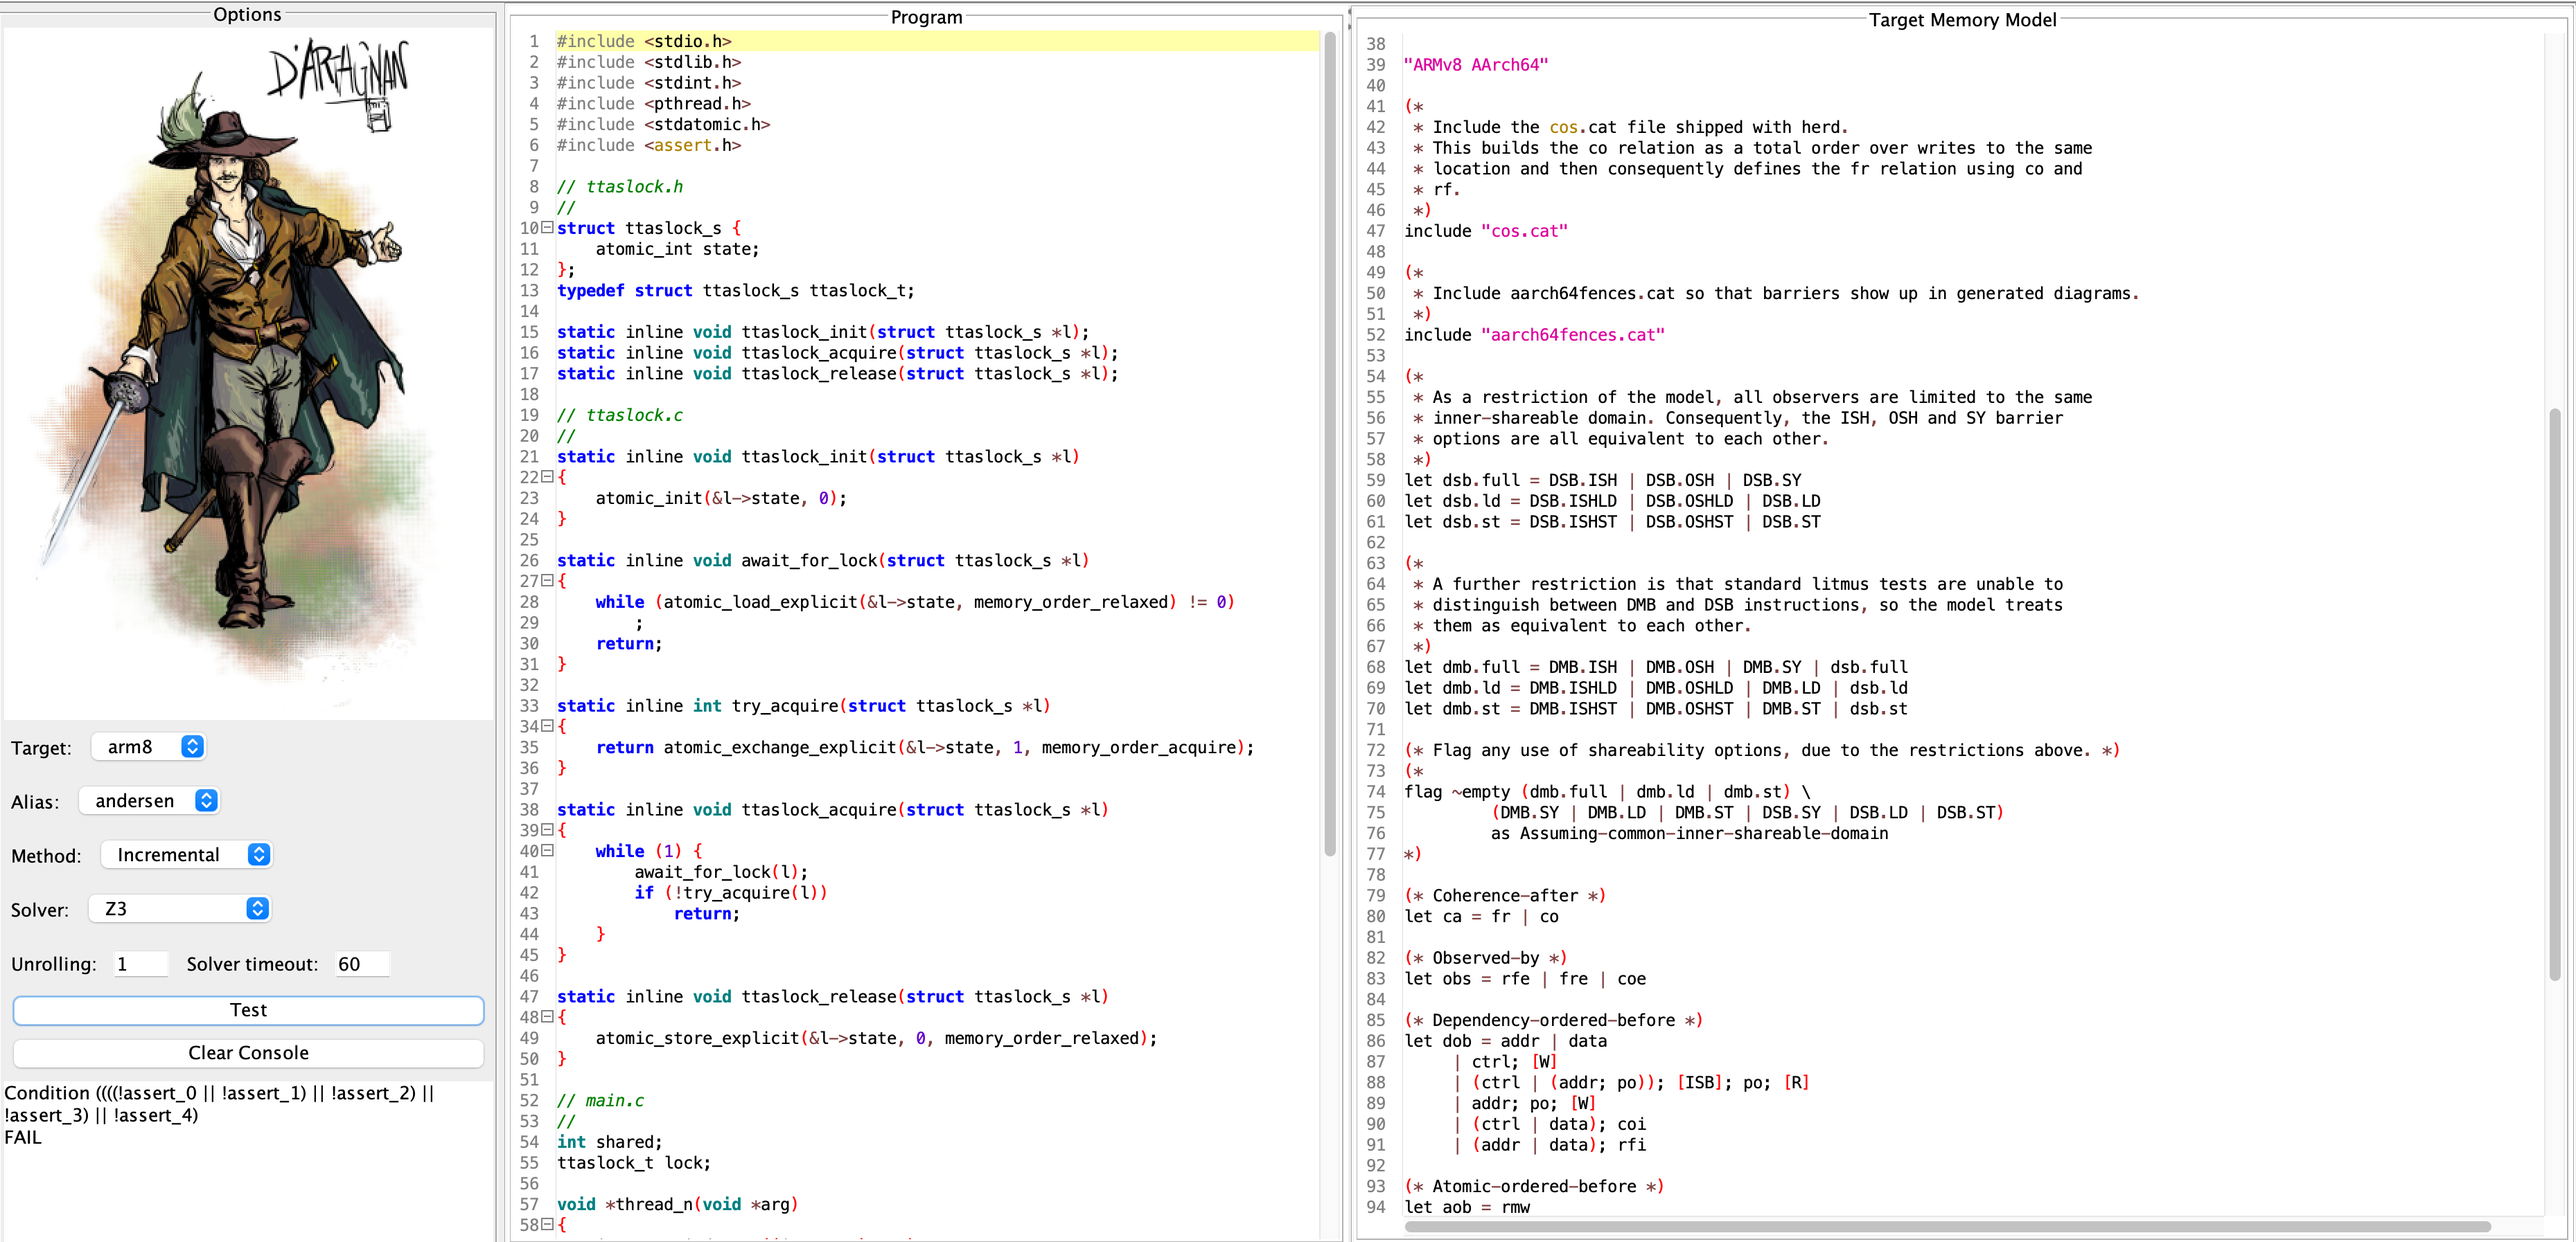
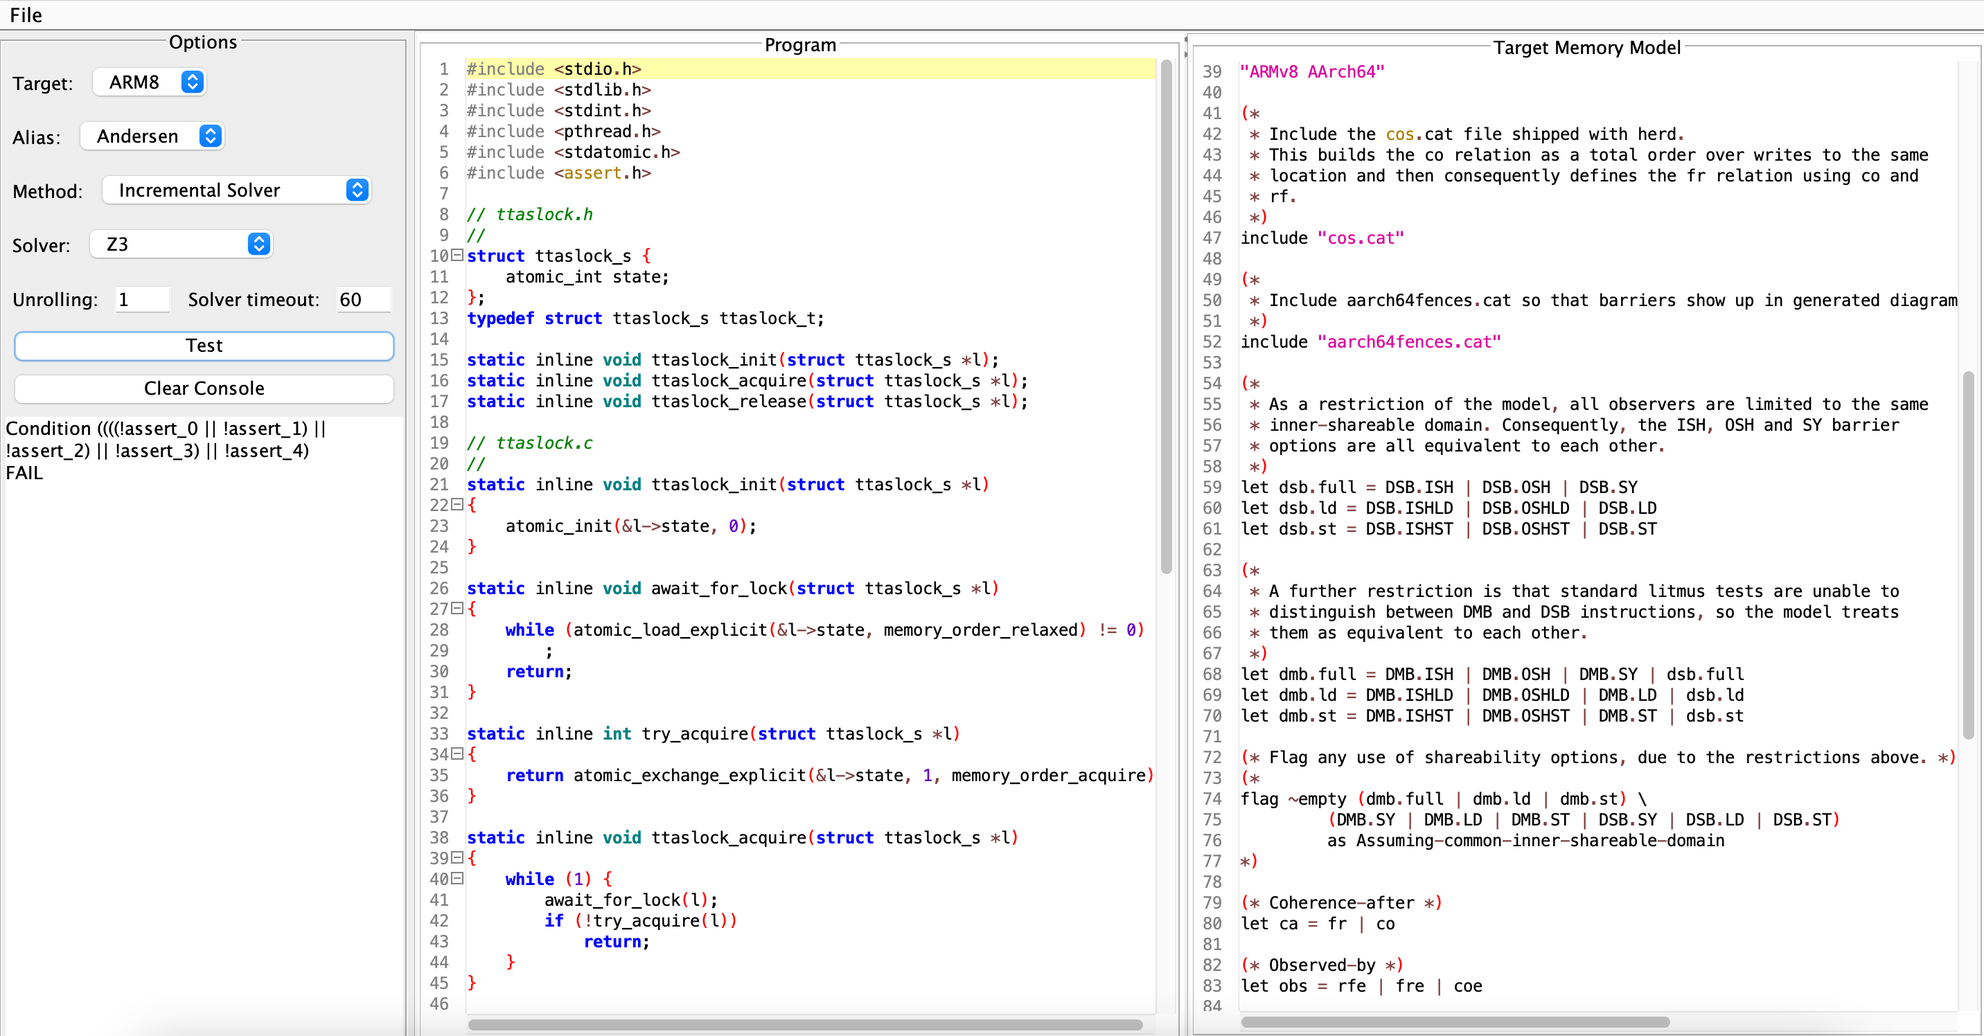
Removed images

Changed region(s): [[0.0, 0.0, 1.0, 1.0], [0.0, 0.5842, 0.1243, 0.738], [0.0, 0.0615, 0.0311, 0.0922]]

diff --git a/ui/src/main/java/com/dat3m/ui/options/OptionsPane.java b/ui/src/main/java/com/dat3m/ui/options/OptionsPane.java
@@ -53,7 +53,7 @@ public class OptionsPane extends JPanel implements ActionListener {
         super(new GridLayout(1,0));
 
         int height = Math.min(getIconHeight(), (int) Math.round(Toolkit.getDefaultToolkit().getScreenSize().getHeight()) * 7 / 18);
-        iconPane = new JLabel(IconHelper.getIcon(IconCode.DARTAGNAN, height), JLabel.CENTER);
+        iconPane = new JLabel();
 
         aliasPane = new Selector<>(Alias.orderedValues(), ControlCode.ALIAS);
         aliasPane.setSelectedItem(Alias.getDefault());

diff --git a/ui/src/main/java/com/dat3m/ui/Dat3M.java b/ui/src/main/java/com/dat3m/ui/Dat3M.java
@@ -41,7 +41,7 @@ public class Dat3M extends JFrame implements ActionListener {
 		setExtendedState(JFrame.MAXIMIZED_BOTH);
 		setDefaultCloseOperation(JFrame.EXIT_ON_CLOSE);
 		setLayout(new BorderLayout());
-		setIconImage(IconHelper.getIcon(IconCode.DAT3M).getImage());
+//		setIconImage(IconHelper.getIcon(IconCode.DAT3M).getImage());
 
 		JMenuBar menuBar = new JMenuBar();
 		JMenu fileMenu = new JMenu("File");

diff --git a/ui/src/main/java/com/dat3m/ui/utils/Utils.java b/ui/src/main/java/com/dat3m/ui/utils/Utils.java
@@ -12,8 +12,8 @@ public class Utils {
                 null,
                 msg,
                 title,
-                JOptionPane.ERROR_MESSAGE,
-                IconHelper.getIcon(IconCode.DAT3M, 60));
+                JOptionPane.ERROR_MESSAGE);
+//                IconHelper.getIcon(IconCode.DAT3M, 60));
     }
 
 	public static void showError(String msg){

diff --git a/README.md b/README.md
@@ -3,10 +3,6 @@
 
 # Dat3M: Memory Model Aware Verification
 
-<p align="center"> 
-<img src="ui/src/main/resources/dat3m.png">
-</p>
-
 **Dartagnan** is a tool to check state reachability under weak memory models.
 
 Requirements
